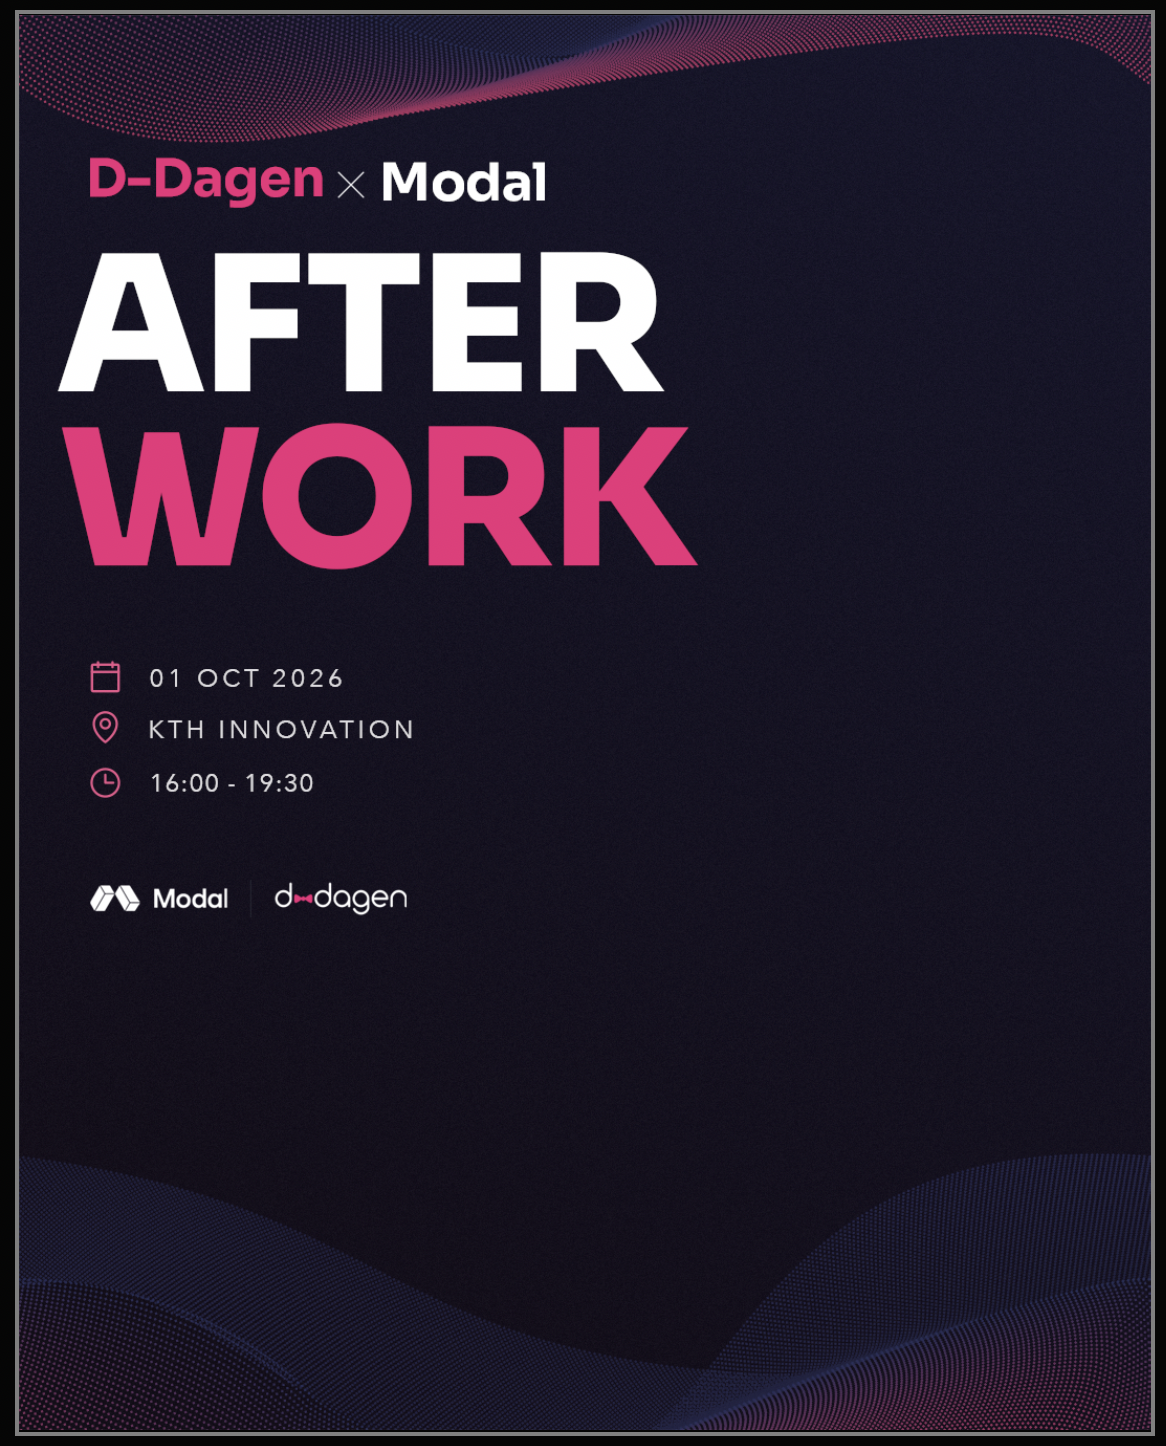
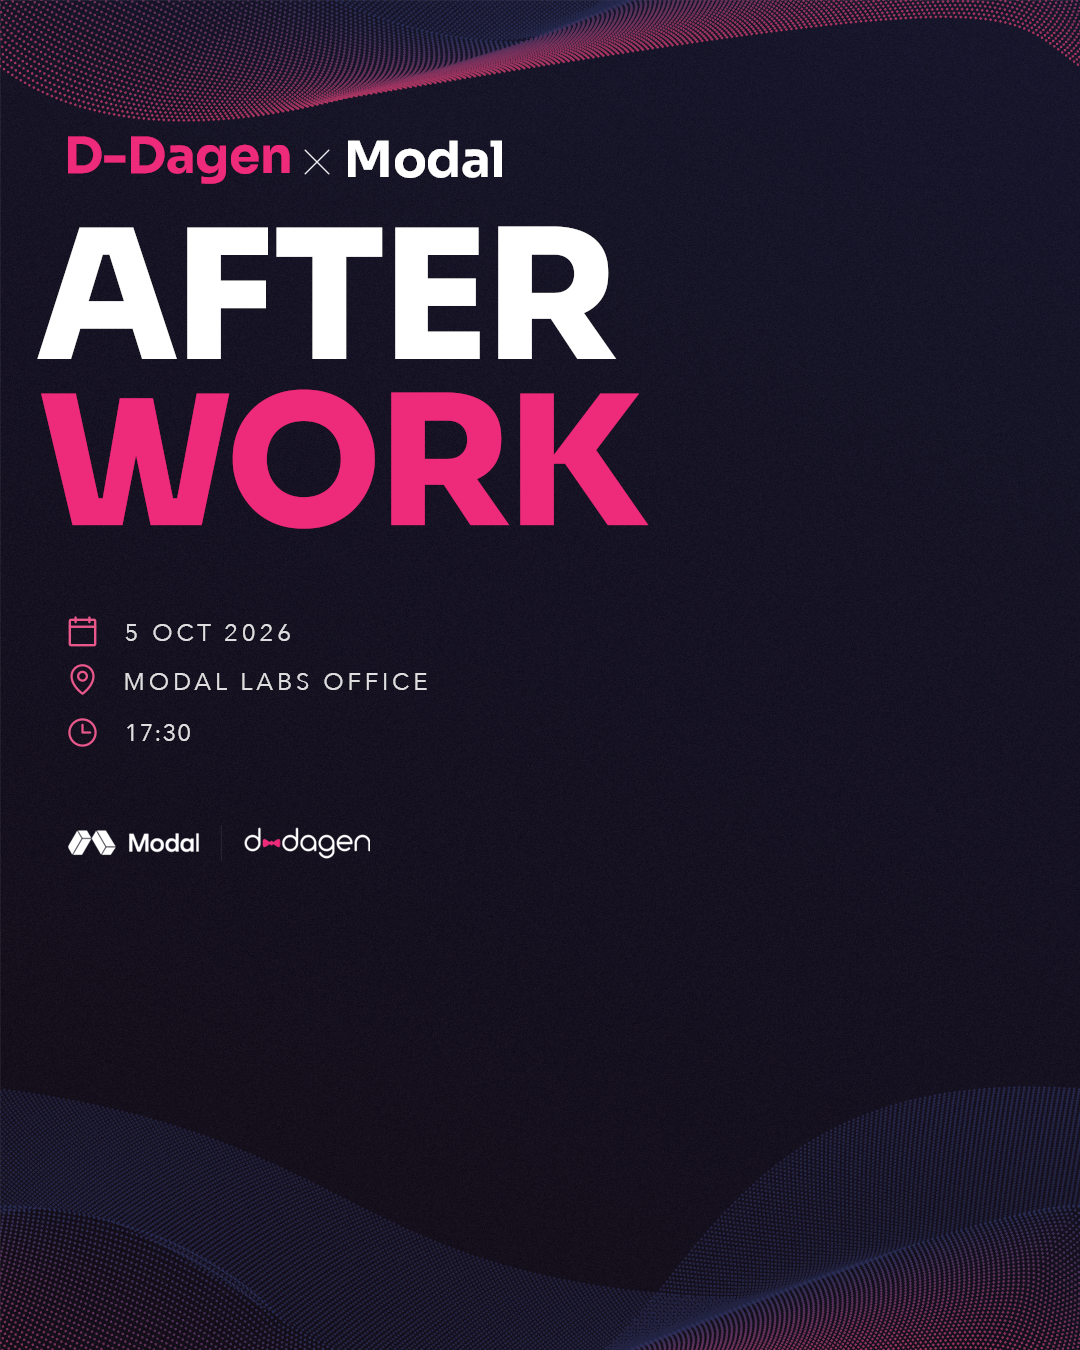
added AIS hackathon and fixed modal AW picture

diff --git a/src/locales/sv.ts b/src/locales/sv.ts
@@ -1199,12 +1199,12 @@ export default {
     banquetSignupText: "biljetter går att köpa efter detta så länge det finns platser kvar.",
     modalAW: {
       header: "Modal AW",
-      text: "Tid: 16:00 \nPlats: Modals kontor på Sveavägen 17",
+      text: "Tid: 17:30 \nPlats: Modals kontor på Sveavägen 17",
       eventText: "Eventsida"
     },
     ddagenXericssonNight: {
       header: "D-Dagen X Ericsson Night",
-      text: "Tid: 17:XX \nPlats: META",
+      text: "Tid: 17:17 \nPlats: META",
       eventText: "Eventsida"
     },
     innovationPitchCompetition: {
@@ -1214,8 +1214,8 @@ export default {
       eventText: "Eventsida"
     },
     ais: {
-      header: "Event med AI Society",
-      text: "Tid: TBD \nPlats: TBD",
+      header: "AI Society Hackathon",
+      text: "",
       eventText: "Eventsida"
     },
   },

diff --git a/src/pages/event.tsx b/src/pages/event.tsx
@@ -228,15 +228,15 @@ export default function Events() {
       eventHash: "pitch"
     },
     {
-      date: "TBD",
+      date: "28/9 - 9/10",
       companyName: "AI Society",
       companyUrl: "https://kthais.com/",
-      image: "/img/exhibitors/ais.png",
+      image: "/img/events/ais_hackathon.png",
       fullImage: true,
       header: t.event.ais.header,
       text: t.event.ais.text,
       eventLinkText: t.event.ais.eventText,
-      eventLinkUrl: "https://lu.ma/"
+      eventLinkUrl: "https://luma.com/kthais-d6jh"
     },
     {
       date: "5/10",

diff --git a/src/locales/en.ts b/src/locales/en.ts
@@ -1210,7 +1210,7 @@ export default {
     },
     ddagenXericssonNight: {
       header: "D-Dagen X Ericsson Night",
-      text: "Time: 17:XX \nPlace: META",
+      text: "Time: 17:17 \nPlace: META",
       eventText: "Event Page"
     },
     innovationPitchCompetition: {
@@ -1220,8 +1220,8 @@ export default {
       eventText: "Event Page"
     },
     ais: {
-      header: "Event with AI Society",
-      text: "Time: TBD \nPlace: TBD",
+      header: "AI Society Hackathon",
+      text: "",
       eventText: "Event Page"
     },
   },
